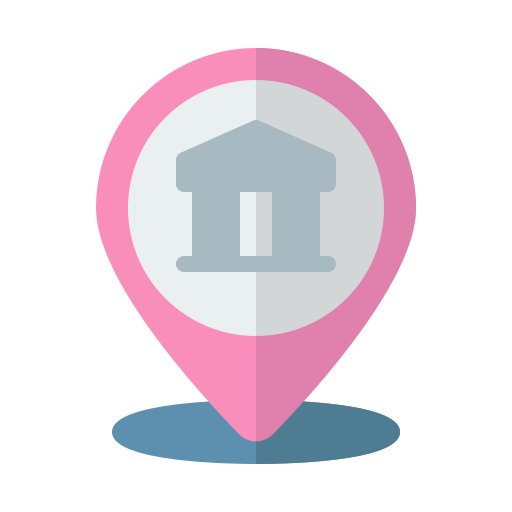
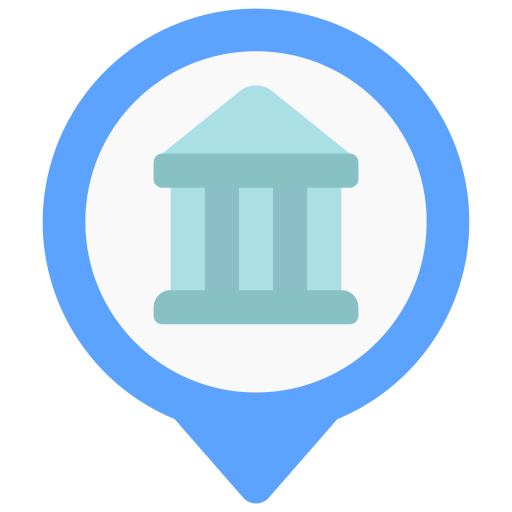
feat: 관광지 유형별 마커 수정

diff --git a/triptape/src/components/map/KakaoMap.vue b/triptape/src/components/map/KakaoMap.vue
@@ -6,7 +6,7 @@ const router = useRouter();
 var map;
 const positions = ref([]);
 const markers = ref([]);
-
+var overlay = null;
 const props = defineProps({
   attractions: Array,
 });
@@ -27,6 +27,7 @@ const props = defineProps({
 onMounted(() => {
   if (window.kakao && window.kakao.maps) {
     initMap();
+    if (overlay) overlay.setMap(null);
   } else {
     const script = document.createElement("script");
     script.src = `//dapi.kakao.com/v2/maps/sdk.js?autoload=false&appkey=${import.meta.env.VITE_KAKAO_MAP_SERVICE_KEY
@@ -66,14 +67,14 @@ const makeInfo = (markerInfo) => {
   const markerBody = document.createElement("div");
 
   const onClickDetail = async (attractionKey) => {
-    await router.push({name: 'attractionDetail', params:{id: attractionKey}})
+    await router.push({ name: 'attractionDetail', params: { id: attractionKey } })
   }
   const btn = document.createElement("button");
-  btn.type ="button";
+  btn.type = "button";
   btn.innerHTML = "자세히";
   btn.classList.add("primary-btn");
   btn.classList.add("marker-btn")
-  btn.addEventListener("click", () => onClickDetail(markerInfo.attractionKey)); 
+  btn.addEventListener("click", () => onClickDetail(markerInfo.attractionKey));
 
   card.appendChild(markerHeader);
   card.appendChild(markerBody);
@@ -86,13 +87,11 @@ watch(() => props.attractions, () => {
   console.log(props.attractions);
   positions.value = [];
   try {
-    console.log(props.attractions);
     props.attractions.forEach((attraction) => {
       let obj = {};
       obj.latlng = new kakao.maps.LatLng(attraction.latitude, attraction.longitude);
       obj.title = attraction.name;
       obj.key = attraction.attractionKey;
-      obj.type = attraction.attractionType.TypeCode;
       positions.value.push(obj);
     });
     loadMarkers();
@@ -125,31 +124,37 @@ const loadMarkers = () => {
   positions.value = [];
   if (!props.attractions) return;
   props.attractions.forEach((attraction) => {
-    let obj = {};
+    let obj = {};;
     obj.latlng = new kakao.maps.LatLng(attraction.latitude, attraction.longitude);
     obj.title = attraction.name;
     obj.attractionKey = attraction.attractionKey;
-    // obj.type = attraction.attractionType.typeCode;
+    if (attraction.attractionType != null) obj.type = attraction.attractionType.typeCode;
     positions.value.push(obj);
   });
 
   // 마커를 생성합니다
   markers.value = [];
 
-  var overlay = null;
 
-   
+
+
 
   positions.value.forEach((position) => {
-     // 마커 이미지를 생성합니다
-    let imgSrc = "../src/assets/marker/trip.png";
+    // 마커 이미지를 생성합니다
 
-    if(position.type == 2) imgSrc = "../src/assets/marker/museum.png";
-    
+    let imgSrc = "/src/assets/marker/trip.png";
+
+    if (position.type == 2) imgSrc = "/src/assets/marker/museum.png";
+    else if (position.type == 3) imgSrc = "/src/assets/marker/load.png";
+    else if (position.type == 4) imgSrc = "/src/assets/marker/sports.png";
+    else if (position.type == 5) imgSrc = "/src/assets/marker/bed.png";
+    else if (position.type == 6) imgSrc = "/src/assets/marker/shop.png";
+    else if (position.type == 7) imgSrc = "/src/assets/marker/food.png";
+
     // 마커 이미지의 이미지 크기 입니다
     const imgSize = new kakao.maps.Size(40, 35);
     const markerImage = new kakao.maps.MarkerImage(imgSrc, imgSize);
-    
+
     const marker = new kakao.maps.Marker({
       map: map, // 마커를 표시할 지도
       position: position.latlng, // 마커를 표시할 위치
@@ -213,22 +218,22 @@ const deleteMarkers = () => {
 }
 
 .marker-info {
-  width: 150px; 
-  text-align:center;
+  width: 150px;
+  text-align: center;
 }
 
-.marker-header{
-  white-space: normal; 
-  padding:5px;
+.marker-header {
+  white-space: normal;
+  padding: 5px;
   font-weight: 500;
-  margin:5px;
+  margin: 5px;
 }
 
-.marker-btn{
-  width:100%; 
-  height:30px; 
-  padding:3px; 
-  border-top-left-radius:0px;
-  border-top-right-radius:0px;
+.marker-btn {
+  width: 100%;
+  height: 30px;
+  padding: 3px;
+  border-top-left-radius: 0px;
+  border-top-right-radius: 0px;
 }
 </style>
